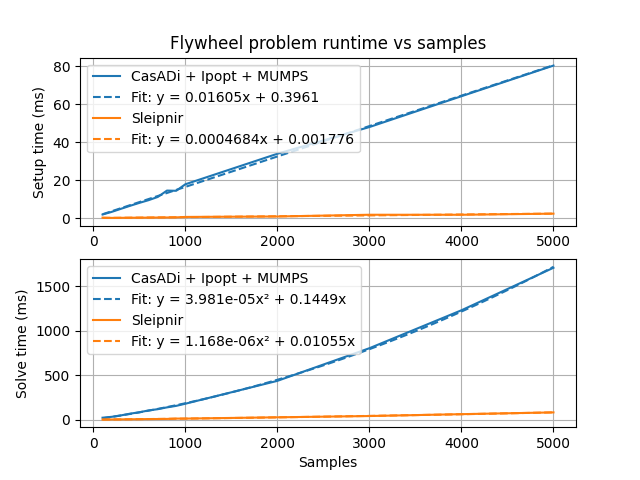
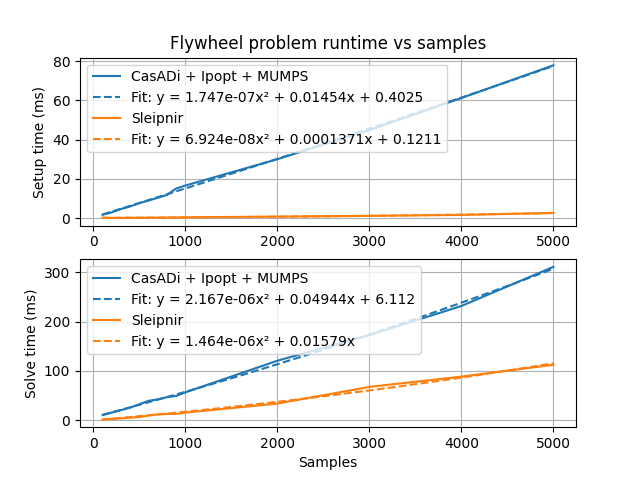
Speed up CasADi benchmark

diff --git a/benchmarks/scalability/cart_pole/casadi.cpp b/benchmarks/scalability/cart_pole/casadi.cpp
@@ -74,7 +74,8 @@ casadi::MX cart_pole_dynamics(const casadi::MX& x, const casadi::MX& u) {
   // q̈ = M⁻¹(q)(τ_g(q) − C(q, q̇)q̇ + Bu)
   casadi::MX qddot{4, 1};
   qddot(casadi::Slice{0, 2}) = qdot;
-  qddot(casadi::Slice{2, 4}) = solve(M, tau_g - mtimes(C, qdot) + mtimes(B, u));
+  qddot(casadi::Slice{2, 4}) =
+      solve(M, tau_g - mtimes(C, qdot) + mtimes(B, u), "symbolicqr");
   return qddot;
 }
 

diff --git a/benchmarks/scalability/util.hpp b/benchmarks/scalability/util.hpp
@@ -73,7 +73,7 @@ int run_benchmarks_and_log(
       if (diagnostics) {
         problem.solver("ipopt");
       } else {
-        problem.solver("ipopt", {{"print_time", 0}},
+        problem.solver("ipopt", {{"expand", true}, {"print_time", 0}},
                        {{"print_level", 0}, {"sb", "yes"}});
       }
       problem.solve();

diff --git a/benchmarks/README.md b/benchmarks/README.md
@@ -26,13 +26,13 @@ Generated by [benchmarks/generate-scalability-results.sh](https://github.com/Sle
 
 * CPU: AMD Ryzen 7 7840U
 * RAM: 64 GB, 5600 MHz DDR5
-* Compiler version: g++ (GCC) 15.2.1 20250813
+* Compiler version: g++ (GCC) 16.1.1 20260430
 
 The following thirdparty software was used in the benchmarks:
 
 * CasADi 3.7.2 (autodiff and NLP solver frontend)
 * Ipopt 3.14.19 (NLP solver backend)
-* MUMPS 5.7.3 (linear solver)
+* MUMPS 5.8.1 (linear solver)
 
 Ipopt uses MUMPS by default because it has free licensing. Commercial linear solvers may be much faster.
 